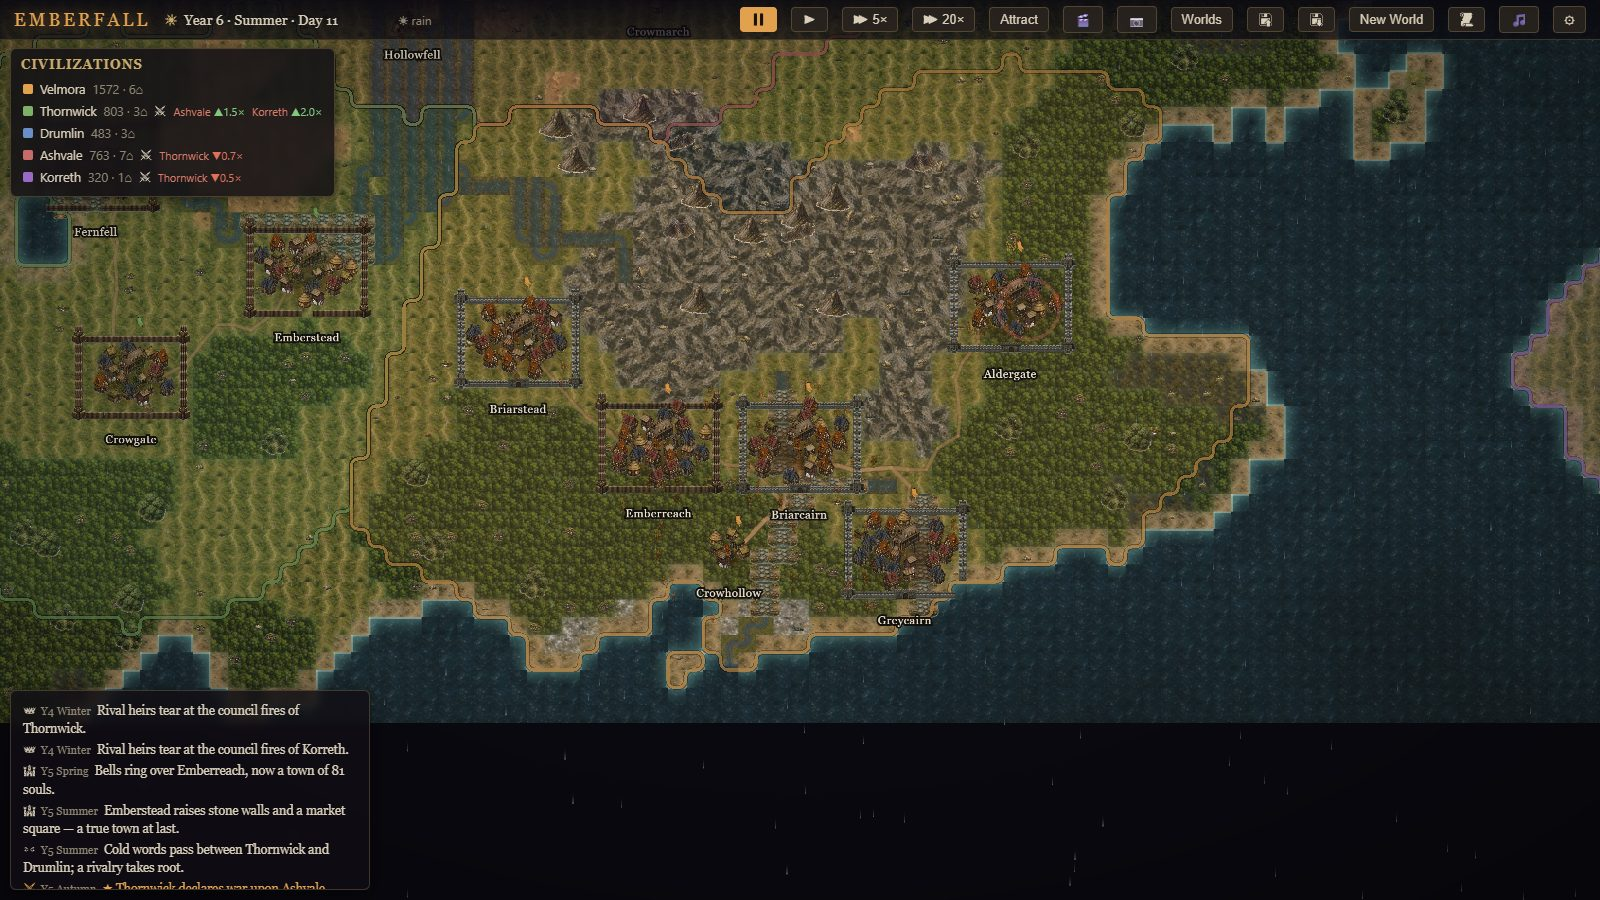
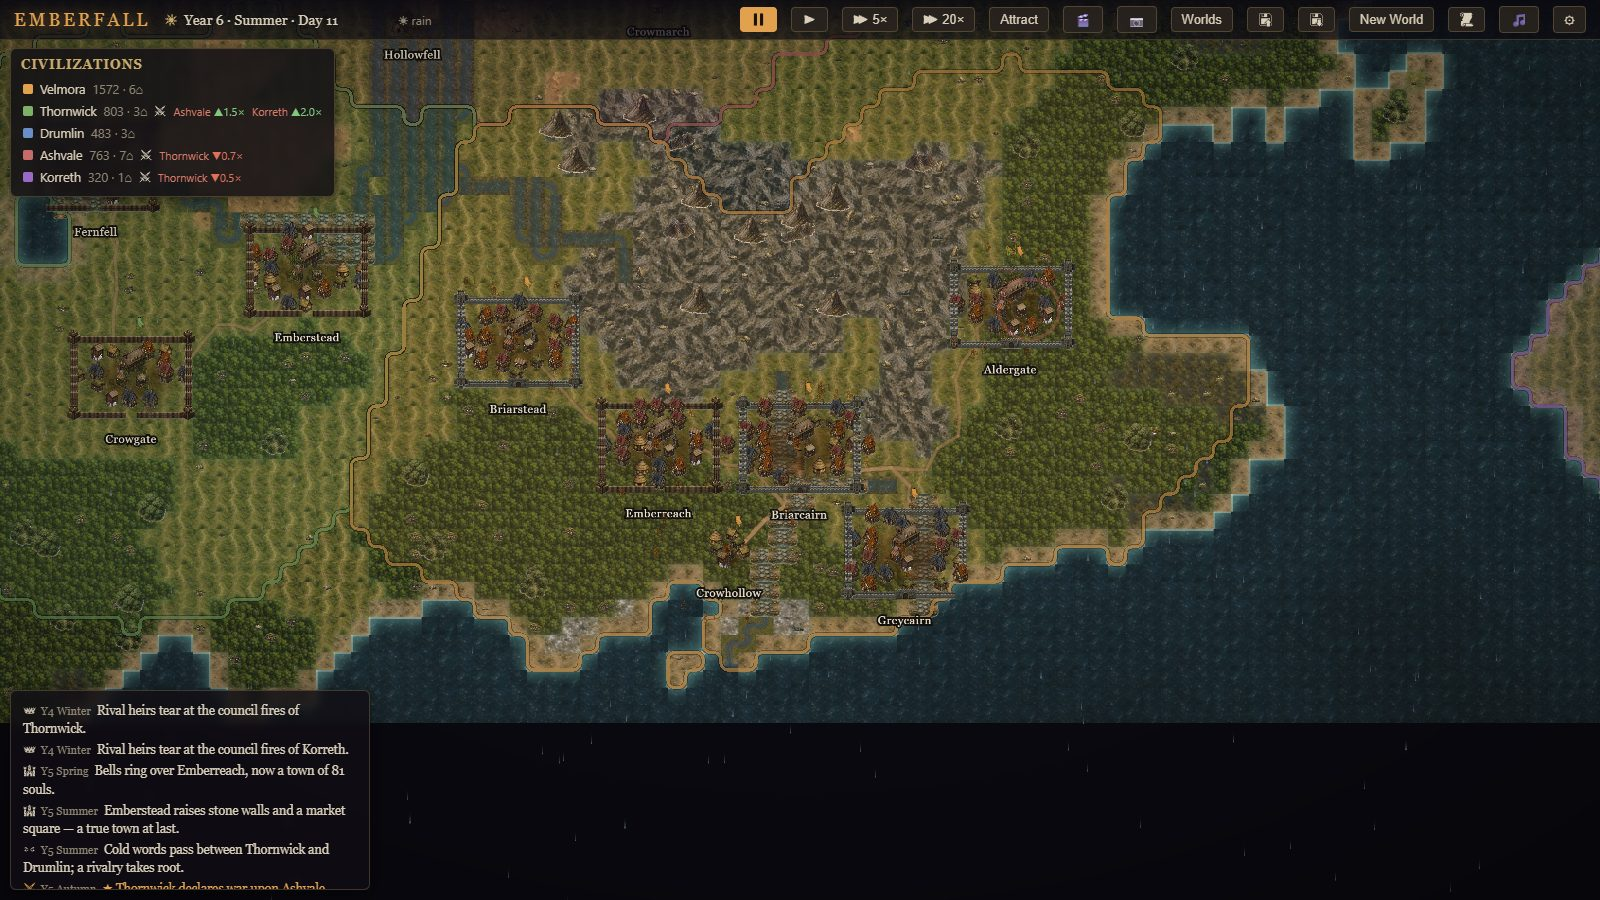
Longer season crossfade; planned-grid town layout; walls cap at corners
- Season crossfade 0.5->2.0s (balanceRender): aligned per-tile variants make a
  longer dissolve read as a seasonal morph, not a double exposure.
- Walls past corners: the tall bottom-anchored vertical wall cells poked above
  the corner towers; inset the vertical run (ry - cornerHalf - 1) so they tuck
  under the towers.
- Town clutter/no-streets: replaced the packed golden-spiral building filler
  with a jittered grid filled centre-outward — rows with lanes + a clear
  central plaza, reading as a planned town instead of a blob. Bounded, respects
  veto/collisions; cluster tests still pass.

Cosmetic only. Verify: typecheck, 64/64, lint, battery QA green, close-up shows
street lanes and clean corner-capped walls.

diff --git a/src/render/settlementCluster.ts b/src/render/settlementCluster.ts
@@ -222,23 +222,26 @@ function wallRect(
   // spanning the side and tucking under the corner towers. Without dedicated
   // art, fall back to a chain of omnidirectional towers / log clumps.
   const vert = pick(have, stone ? 'wall_vertical' : 'palisade_vertical');
-  const runH = ry - tuck;
   if (vert) {
     // Stack overlapping CELLS of the dedicated N-S art down each side: the
     // front (lower) cell occludes the one behind it, reading as a coursed wall
     // with 3/4 depth — matching the horizontal run — not one stretched strip.
     // sideW = w*0.5 renders the side tile at the SAME px scale as the
     // horizontal run, so vertical and horizontal walls read the same thickness.
+    // The tall, bottom-anchored cells reach UP, so inset the run by ~a corner
+    // so the top/bottom cells tuck UNDER the towers instead of poking past them.
     const sideW = w * 0.5;
     const stepY = sideW * 1.05;
-    const countY = Math.max(1, Math.round((2 * runH) / stepY));
+    const vRunH = ry - cornerHalf - 1;
+    const countY = Math.max(1, Math.round((2 * vRunH) / stepY));
     for (let i = 0; i <= countY; i++) {
-      const dy = -runH + (2 * runH * i) / countY;
+      const dy = -vRunH + (2 * vRunH * i) / countY;
       if (ok(-rx, dy)) put(out, vert, -rx, dy, { w: sideW });
       if (ok(rx, dy)) put(out, vert, rx, dy, { w: sideW, flip: true });
     }
   } else {
     const sideKind = stone ? (corner ?? straight) : straight;
+    const runH = ry - tuck;
     const stepY = stone ? pw(sideKind) * 1.45 : w * 0.55;
     const countY = Math.max(1, Math.round((2 * runH) / stepY));
     for (let i = 0; i <= countY; i++) {
@@ -323,17 +326,37 @@ export function layoutCluster(
     const shrineDx = hash2(seed, 40, 2) < 0.5 ? -7 : 7;
     if (shrine && hash2(seed, 40, 1) < 0.6 && ok(shrineDx, -1.5)) put(out, shrine, shrineDx, -1.5);
 
+    // Buildings on a jittered GRID filled centre-outward, with lanes between
+    // rows, so a town reads as planned streets-and-blocks rather than a packed
+    // golden-spiral blob. Each slot jitters within its cell; the central plaza,
+    // occupied cells (collision), and vetoed tiles stay clear.
     const fixed = out.length;
     const count = Math.min(30, 12 + Math.max(0, bucket - 3) * 2) - fixed;
-    for (let i = 0; i < count; i++) {
-      const roll = hash2(seed, 50 + i, 3);
+    const step = 8;
+    const slots: { dx: number; dy: number; d: number }[] = [];
+    for (let gy = -4; gy <= 4; gy++) {
+      for (let gx = -4; gx <= 4; gx++) {
+        slots.push({ dx: gx * step, dy: gy * step * 0.66, d: gx * gx + gy * gy * 1.25 });
+      }
+    }
+    slots.sort((a, b) => a.d - b.d);
+    let placed = 0;
+    for (let si = 0; si < slots.length && placed < count; si++) {
+      const dx = slots[si].dx + (hash2(seed, 50 + si, 7) - 0.5) * 2.4;
+      const dy = slots[si].dy + (hash2(seed, 50 + si, 8) - 0.5) * 1.8;
+      if (Math.abs(dx) < 3.5 && dy > -7 && dy < 4) continue; // keep the central plaza clear
+      const roll = hash2(seed, 50 + placed, 3);
       const kind =
         roll < 0.55
-          ? pick(have, `house_${Math.floor(hash2(seed, 50 + i, 4) * 3)}`, 'house_0', 'hut_0')
+          ? pick(have, `house_${Math.floor(hash2(seed, 50 + placed, 4) * 3)}`, 'house_0', 'hut_0')
           : roll < 0.85
-            ? pick(have, `hut_${Math.floor(hash2(seed, 50 + i, 5) * 3)}`, 'hut_0', 'house_0')
-            : pick(have, hash2(seed, 50 + i, 6) < 0.5 ? 'granary' : 'shed', 'shed', 'granary', 'hut_1');
-      if (kind) placeSpiral(out, seed, 50 + i, kind, 7.5, { lift: true, lamp: i < 4 }, buildable);
+            ? pick(have, `hut_${Math.floor(hash2(seed, 50 + placed, 5) * 3)}`, 'hut_0', 'house_0')
+            : pick(have, hash2(seed, 50 + placed, 6) < 0.5 ? 'granary' : 'shed', 'shed', 'granary', 'hut_1');
+      if (!kind) break; // no building art at all
+      if (buildable && !buildable(dx, dy)) continue;
+      if (collides(out, dx, dy, pw(kind))) continue;
+      put(out, kind, dx, dy, { lift: true, lamp: placed < 4 });
+      placed++;
     }
 
     const lamp = pick(have, 'lamp');

diff --git a/src/config/balanceRender.ts b/src/config/balanceRender.ts
@@ -42,9 +42,11 @@ export const RENDER_BALANCE = {
   duskAlpha: 0.5,
   /** Screen-space vignette strength at the corners (0 disables). */
   vignetteAlpha: 0.36,
-  /** Seconds for the terrain bake crossfade on season change — kept short:
-      long alpha blends of misaligned pixel art read as a double exposure. */
-  seasonFadeSeconds: 0.5,
+  /** Seconds for the terrain bake crossfade on season change. The batch-13/T1
+      tiles keep the same per-tile variant layout across seasons (only the
+      palette changes), so the two bakes are aligned and a longer dissolve reads
+      as a real seasonal morph rather than a double exposure. */
+  seasonFadeSeconds: 2.0,
   /** Bake-time neutral overlay that softens terrain contrast so actors pop.
       Spring keeps a faint fresh-green unifier (batch-13 art is already
       fresh — the old 0.05 was a correction for the olive batch-5 art). */

diff --git a/docs/sessions/2026-06-15.md b/docs/sessions/2026-06-15.md
@@ -171,6 +171,24 @@ Owner regenerated terrain + landform + crossing art (plan A). Wired:
 Verify: typecheck · 64/64 · lint · battery QA green · close-ups show high-res
 seasonal terrain + a real plank bridge where a road fords the river.
 
+### Season crossfade + cluster layout polish
+
+- **Season crossfade** (`balanceRender.seasonFadeSeconds` 0.5 → 2.0): the
+  per-season bakes share per-tile variant layout (only palette differs), so the
+  dissolve is aligned — a longer fade reads as a seasonal morph, not a double
+  exposure. (Crossfade already existed in `terrainLayer.update`.)
+- **Walls past corners** (`settlementCluster.wallRect`): the tall bottom-anchored
+  vertical wall cells poked above the corner towers. Inset the vertical run to
+  `ry - cornerHalf - 1` so the top/bottom cells tuck UNDER the towers.
+- **Town clutter / no streets / no planning** (`wallRect` caller / tier-2
+  layout): replaced the packed golden-spiral filler with a jittered GRID filled
+  centre-outward — buildings sit in rows with lanes between them and a clear
+  central plaza, reading as a planned town with streets instead of a blob.
+  Bounded (±4 cells), respects the veto + collisions; cluster tests still pass
+  (deterministic, veto, no-exile, painter order, graceful-degrade).
+Verify: typecheck · 64/64 (incl. cluster engine) · lint · battery QA green ·
+close-up shows lanes between building rows and clean corner-capped walls.
+
 ### Still open from codex
 - Macro turnover / decisive war — **deferred by owner**.
 - Growth too front-loaded — sim balance, deferred with the above.
